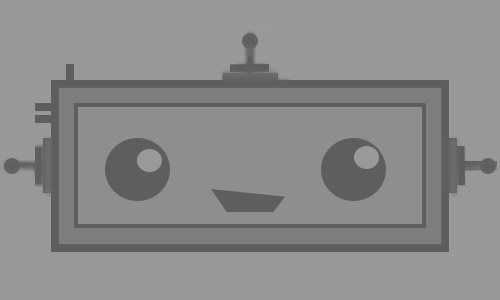
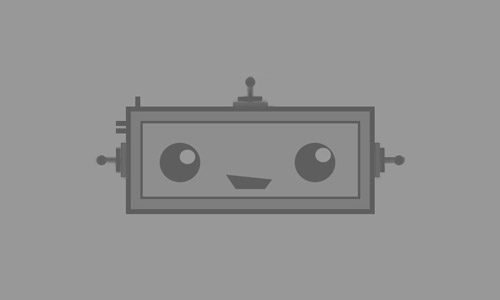
Changing placeholder

Changed region(s): [[0.0, 0.09, 1.0, 0.84]]

diff --git a/explorer/templates/explorer/challenge-observe.html b/explorer/templates/explorer/challenge-observe.html
@@ -131,7 +131,7 @@ $(document).ready(function(){
     {% for i in "012345" %}
     <div class="col-lg-4  col-sm-6 pb-5 target-holder">
         <a href="#" id="target-img-{{i}}" data-toggle="modal" data-target="#targetModal" data-tid="">
-            <img class="img-fluid" src="http://placehold.it/400x300" alt="">
+            <img class="img-fluid" src="{% static 'explorer/images/placeholder.jpg' %}" alt="">
             <div class="target-name-holder">
               <span class="target-name"></span>
             </div>

diff --git a/explorer/templates/explorer/challenge-analyser.html b/explorer/templates/explorer/challenge-analyser.html
@@ -71,7 +71,7 @@ function add_answers_to_form() {
   <h1>{% trans "Analyse your image!" %}</h1>
   <div class="row">
     <div class="col-lg-8">
-      <img src="http://placehold.it/300x300" alt="{{object.name}}" class="img-fluid rounded" id="img-holder">
+      <img src="{% static 'explorer/images/placeholder.jpg' %}" alt="{{object.name}}" class="img-fluid rounded" id="img-holder">
     </div>
     <div class="col-lg-4">
         <div class="arrow bottom right"></div>

diff --git a/explorer/templates/explorer/challenge-summary.html b/explorer/templates/explorer/challenge-summary.html
@@ -23,7 +23,7 @@
         </p>
         </div>
         <div class="col-lg-8">
-          <img src="http://placehold.it/300x300" alt="{{object.name}}" class="img-fluid rounded" id="img-holder">
+          <img src="{% static 'explorer/images/placeholder.jpg' %}" alt="{{object.name}}" class="img-fluid rounded" id="img-holder">
           <p>Your picture of {{progress.target}}</p>
         </div>
     </div>

diff --git a/notify/archive.py b/notify/archive.py
@@ -71,7 +71,7 @@ def fetch_archive_frames(auth_header, archive_url, frames):
     return frames
 
 def check_for_existing_file(filename, archive_md5):
-    if os.path.isfile(new_filename):
+    if os.path.isfile(filename):
         hash_md5 = md5()
         with open(fname, "rb") as f:
             for chunk in iter(lambda: f.read(4096), b""):
@@ -98,8 +98,7 @@ def download_files(frames, output_path):
         logger.debug(frame['filename'])
         filename = os.path.join(output_path, frame['filename'])
         archive_md5 = frame['version_set'][-1]['md5']
-        if check_for_existing_file(filename, archive_md5) or \
-            check_for_bad_file(filename):
+        if check_for_existing_file(filename, archive_md5):
             logger.info("Skipping existing file {}".format(frame['filename']))
         else:
             logger.info("Writing file to {}".format(filename))
